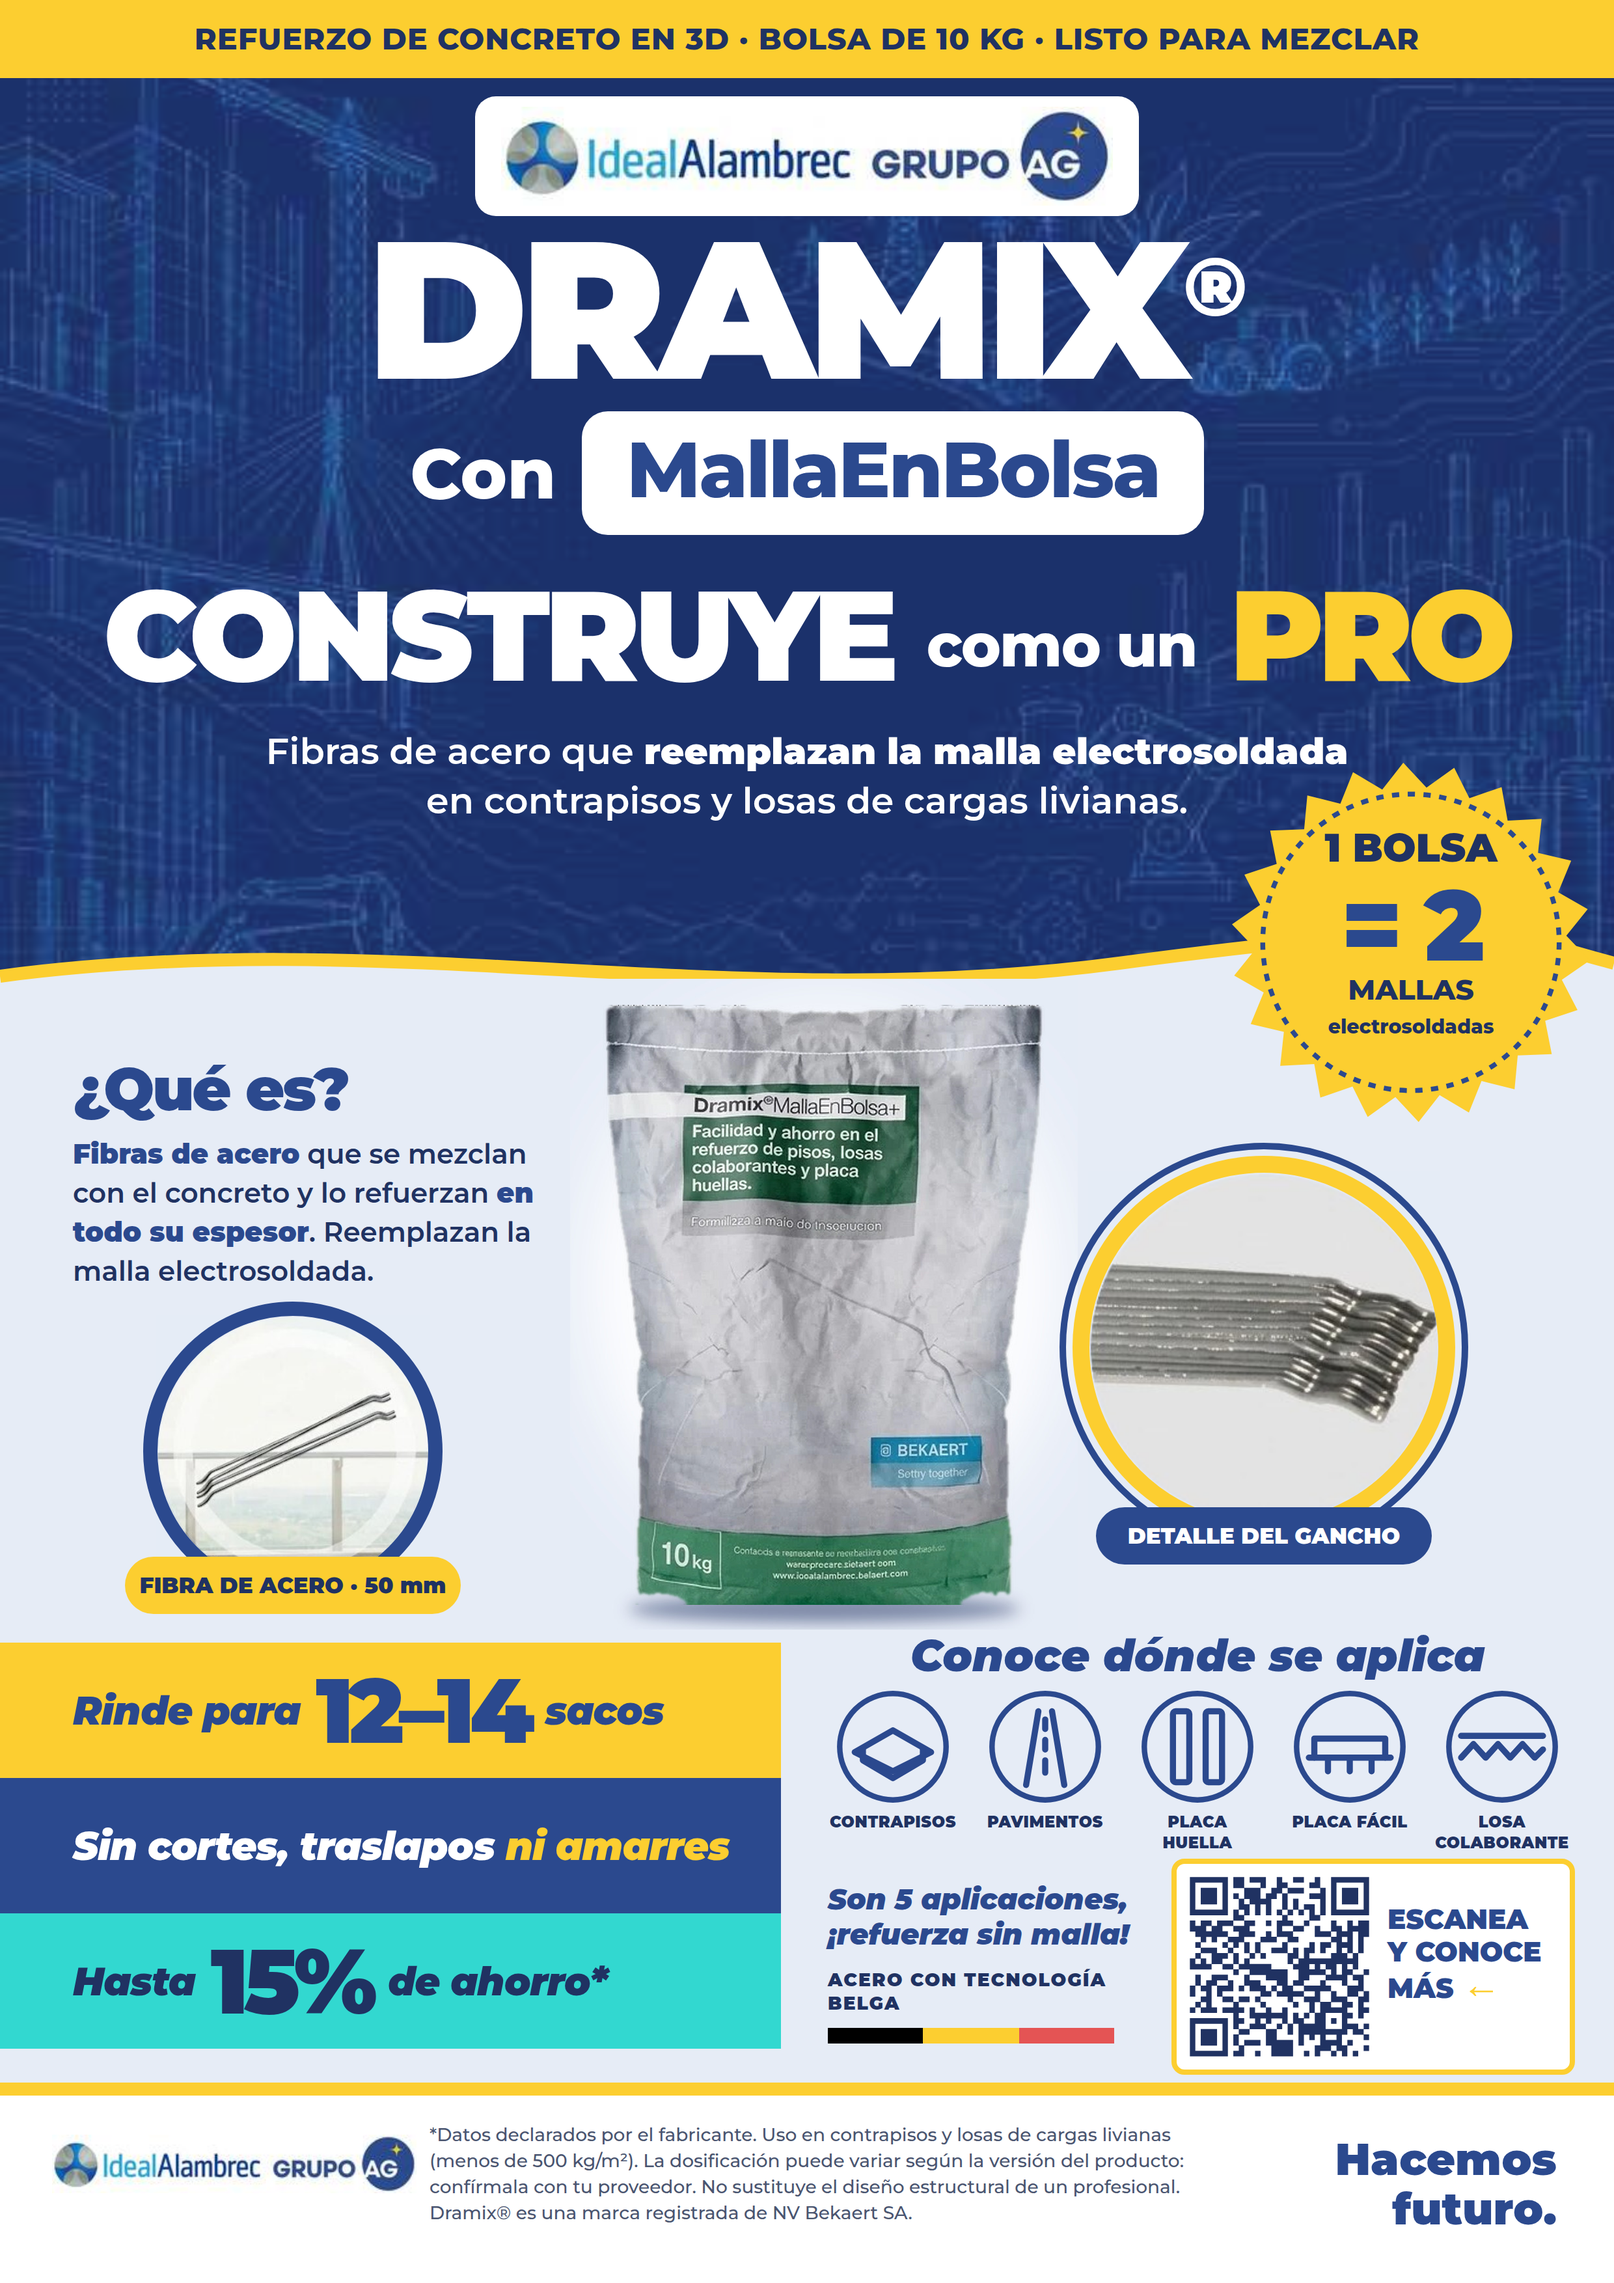
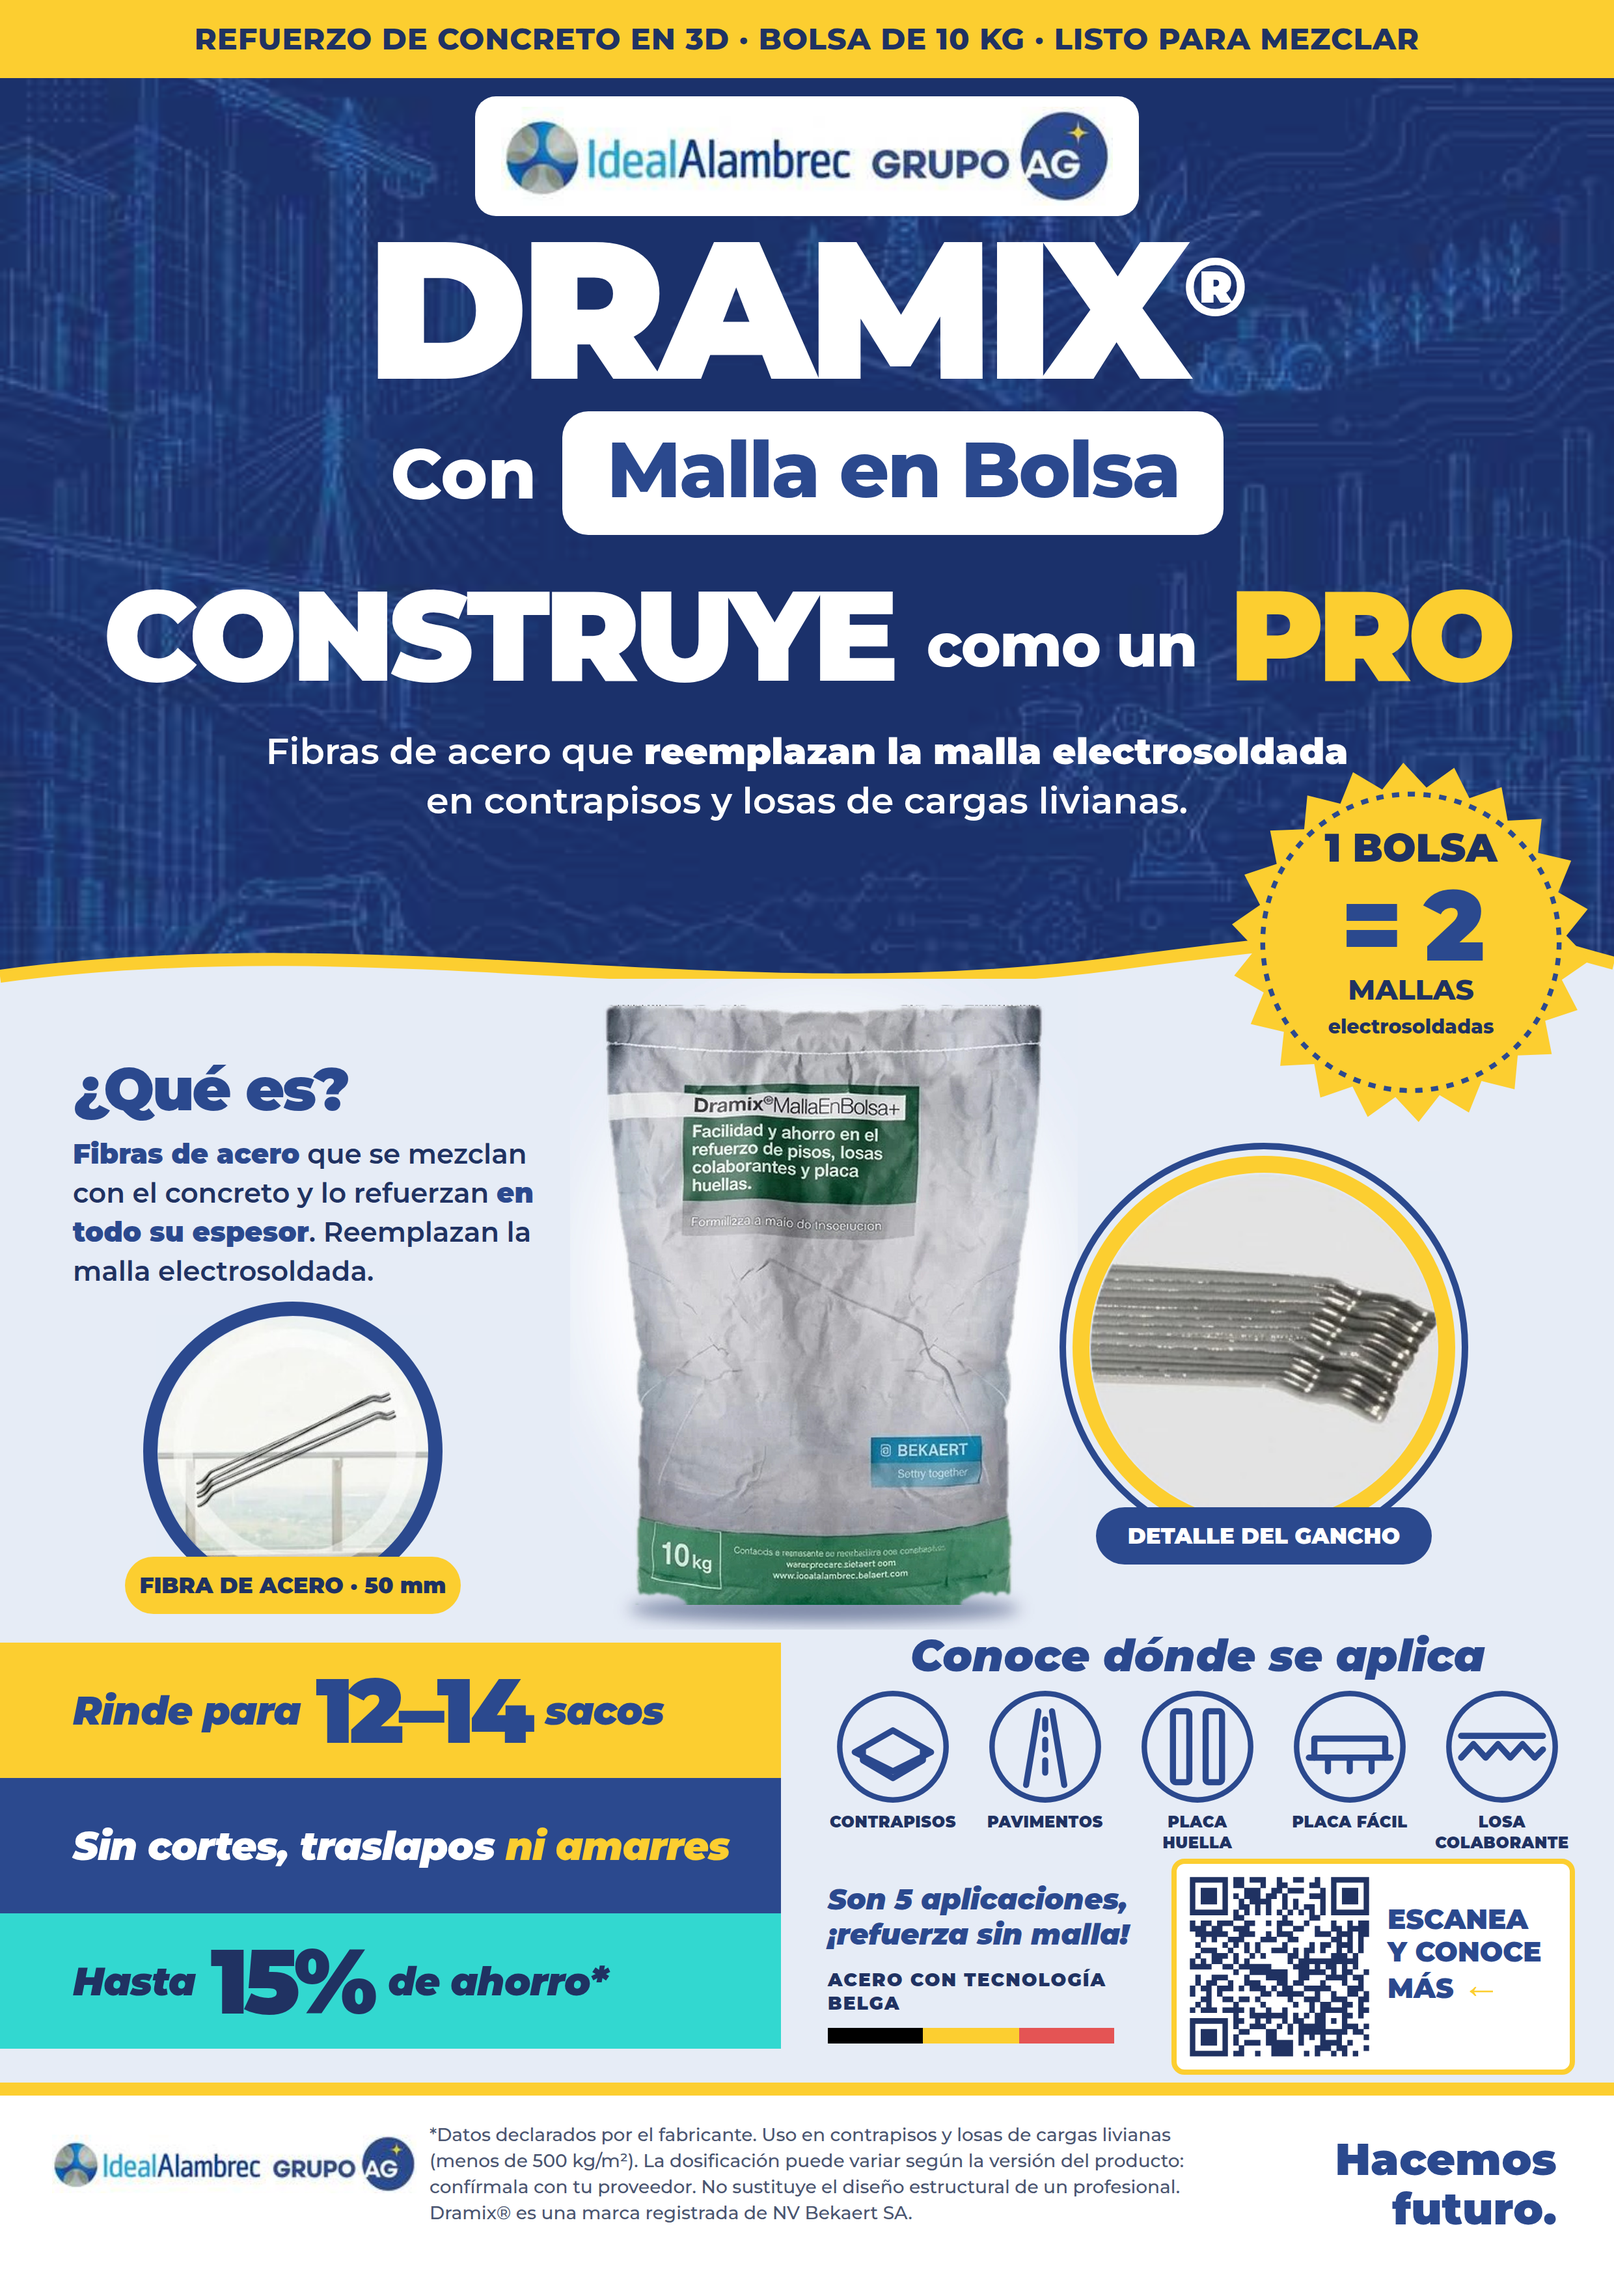
Folleto: Malla en Bolsa con palabras separadas
Claude-Session: https://claude.ai/code/session_01Ge7GwPdC8YWPZThk4wzFwi

Changed region(s): [[0.2484, 0.1864, 0.7762, 0.2486]]

diff --git a/folleto/folleto-dramix.html b/folleto/folleto-dramix.html
@@ -395,7 +395,7 @@ CF+cH8iKNHjudbkbWCGl2cVZTcQtc0FqU8jZF1RxOsopWwoliK28oQNad5Jcg8dOhn/Tp4MQTA1JaHfP
[2 lines of base64/hex data omitted]
   <div class="abs c dramix">DRAMIX<sup>®</sup></div>
-  <div class="abs conrow"><span class="con">Con</span><span class="pill">Malla<b>En</b>Bolsa</span></div>
+  <div class="abs conrow"><span class="con">Con</span><span class="pill">Malla en Bolsa</span></div>
   <div class="abs h1">CONSTRUYE <span>como un</span> <em>PRO</em></div>
   <div class="abs sub">Fibras de acero que <b>reemplazan la malla electrosoldada</b><br>en contrapisos y losas de cargas livianas.</div>
 
@@ -2784,7 +2784,7 @@ SsH8NtTtk7G4cdxL14nql457hlPdoP1PUj6YrT3+nTcSXbyNsYm9n2jXtSXZEuQ2Raoywp1RHDqhyEDz
 <div class="slide" data-canvas-width="1240" data-canvas-height="1754">
   <div class="rkv"></div>
   <div class="rtint"></div>
-  <div class="abs rk">Dramix® MallaEnBolsa</div>
+  <div class="abs rk">Dramix® Malla en Bolsa</div>
   <div class="abs rt">Todo lo que debes<br>saber para <em>reforzar</em></div>
   <div class="abs rsub">Son <b>fibras de acero</b> que se mezclan con el concreto y lo refuerzan en <b>3 dimensiones</b>. Reemplazan la malla electrosoldada o la varilla en placas de cargas livianas.</div>
   <div class="spec">
@@ -2834,7 +2834,7 @@ SsH8NtTtk7G4cdxL14nql457hlPdoP1PUj6YrT3+nTcSXbyNsYm9n2jXtSXZEuQ2Raoywp1RHDqhyEDz
   <div class="abs tip">TRUCO: si el imán no la atrae, no es Dramix®</div>
 
   <div class="abs conf">
-    <div class="cf"><h6>"MallaEnBolsa" sintética</h6><p>Tiene casi el mismo nombre, pero son fibras plásticas, no de acero.</p></div>
+    <div class="cf"><h6>"Malla en Bolsa" sintética</h6><p>Tiene casi el mismo nombre, pero son fibras plásticas, no de acero.</p></div>
     <div class="cf"><h6>Microfibra (19 mm)</h6><p>Solo controla las fisuras de retracción. No es refuerzo estructural.</p></div>
     <div class="cf"><h6>Fibra de vidrio</h6><p>Se usa en morteros y prefabricados delgados. No reemplaza la malla.</p></div>
     <div class="cf"><h6>Otras Dramix® 3D/4D/5D</h6><p>Son otros productos, para pisos industriales y usos estructurales.</p></div>
